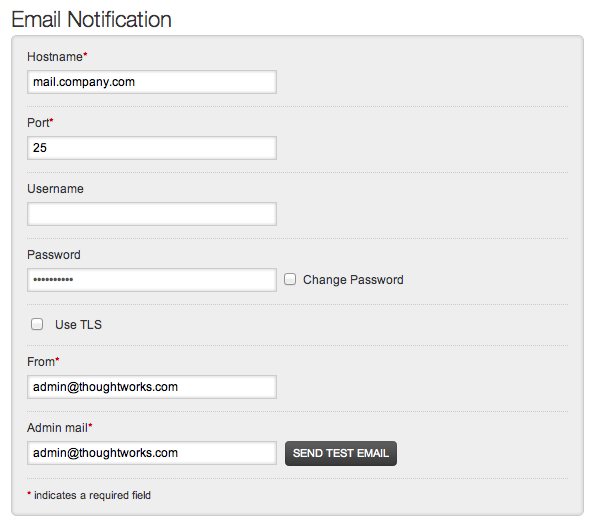
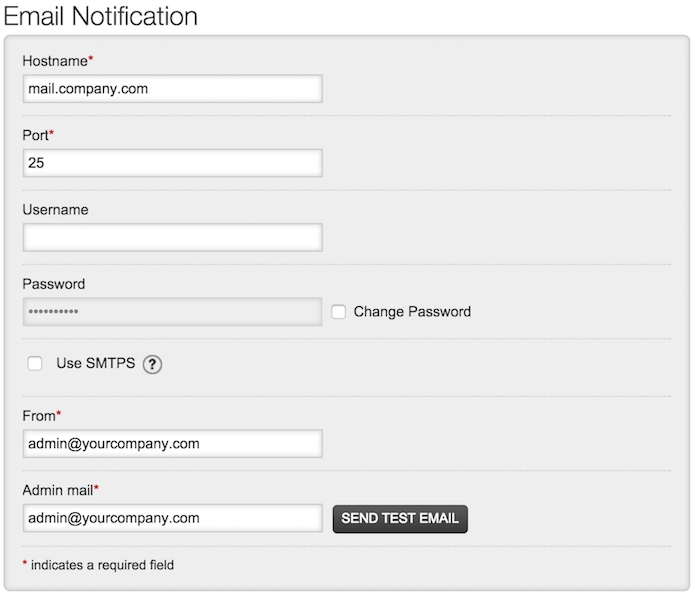
Add information about STARTTLS and SMTPS.
Corresponds to gocd/gocd#723 and gocd/gocd#724.

Changed region(s): [[0.0, 0.0, 1.0, 1.0], [0.4569, 0.7273, 0.4873, 0.7576]]

diff --git a/user/configuration/admin_mailhost_info.md b/user/configuration/admin_mailhost_info.md
@@ -1,6 +1,6 @@
 #Mailhost information
 
-In order to allow [email notifications](dev_notifications.md), we need to tell Go information about your mailhost.
+In order to allow [email notifications](dev_notifications.md), you need to tell Go information about your mailhost.
 
 -   Click on the [Administration](../navigation/administration_page.md) tab
 ![](../resources/images/topnav_admin.png)
@@ -10,3 +10,12 @@ In order to allow [email notifications](dev_notifications.md), we need to tell G
 -   Add an Administrator email address (this account will be emailed if the Go server is [running out of disk space](../faq/admin_out_of_disk_space.md))
 -   Click 'Send test email' to verify the configuration is working correctly
 -   Click 'Save' when you're sure it's working.
+
+<a name='starttls'></a>
+# SMPTS and TLS
+
+Depending on the way your email server is setup, you might need to enable TLS or SMTPS setup in Go, to get it to send emails properly. Please ask you administrators for information about the setup of your email server.
+
+To make Go change the protocol to use SMTPS, while connecting to the email server, just enable the "Use SMTPS" setting shown in the image above. Most often, but not always, this setting is used in conjunction with port 465.
+
+If your email server uses STARTLS, then you need to pass in the ```mail.smtp.starttls.enable``` Java system property to Go, to enable support for it. This is done by providing the command-line argument ```-Dmail.smtp.starttls.enable=true``` during startup (into the GO_SERVER_SYSTEM_PROPERTIES part of /etc/default/go-server, for instance). Most often, but not always, this setting is used in conjunction with port 587, and with the "Use SMTPS" option turned off.
